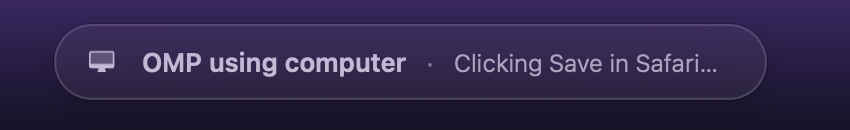
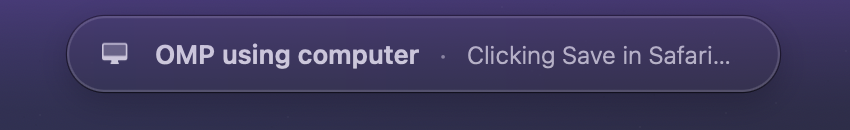
Softer corners, wallpaper stage, frozen breath for deterministic shots

diff --git a/computer-pill/main.swift b/computer-pill/main.swift
@@ -58,7 +58,8 @@ final class GlowView: NSView {
  let clear = NSColor(red: 0.62, green: 0.36, blue: 1.0, alpha: 0.0)
  let depth: CGFloat = 110
  func wash(_ rect: NSRect, angle: CGFloat) {
- NSGradient(starting: edge, ending: clear)?.draw(in: rect, angle: angle)
+ let stops: [(CGFloat, CGFloat)] = [(0.0, 0.55), (0.2, 0.49), (0.4, 0.36), (0.6, 0.19), (0.8, 0.06), (0.9, 0.015), (1.0, 0.0)]
+ NSGradient(colors: stops.map { edge.withAlphaComponent($0.1) }, atLocations: stops.map { $0.0 }, colorSpace: .deviceRGB)?.draw(in: rect, angle: angle)
  }
  override func draw(_ dirtyRect: NSRect) {
  let w = bounds.width, h = bounds.height, d = depth
@@ -66,15 +67,6 @@ final class GlowView: NSView {
  wash(NSRect(x: 0, y: 0, width: w, height: d), angle: 90)
  wash(NSRect(x: 0, y: 0, width: d, height: h), angle: 0)
  wash(NSRect(x: w - d, y: 0, width: d, height: h), angle: 180)
- let corners: [NSPoint] = [
- NSPoint(x: 0, y: 0), NSPoint(x: w, y: 0),
- NSPoint(x: 0, y: h), NSPoint(x: w, y: h),
- ]
- for c in corners {
- NSGradient(starting: edge, ending: clear)?.draw(
- fromCenter: c, radius: 0, toCenter: c, radius: d * 1.4,
- options: [.drawsAfterEndingLocation])
- }
  }
 }
 
@@ -195,6 +187,57 @@ func layout() {
   label.frame = NSRect(x: labelX, y: (pillH - th) / 2, width: pillW - labelX - margin, height: th)
 }
 
+// --stage: README staging only. Full-bleed gradient backdrop drawn by the
+// binary itself, so shots have no foreign windows, seams, or personal data.
+final class BackdropView: NSView {
+ override func draw(_ dirtyRect: NSRect) {
+ let top = NSColor(red: 0.17, green: 0.17, blue: 0.28, alpha: 1.0)
+ let bottom = NSColor(red: 0.25, green: 0.22, blue: 0.36, alpha: 1.0)
+ NSGradient(starting: top, ending: bottom)?.draw(in: bounds, angle: 270)
+ // soft wallpaper-like color fields, so the glow reads as ambient light
+ let w = bounds.width, h = bounds.height
+ func blob(_ cx: CGFloat, _ cy: CGFloat, _ r: CGFloat, _ c: NSColor) {
+ NSGradient(starting: c, ending: c.withAlphaComponent(0))?.draw(
+ fromCenter: NSPoint(x: cx, y: cy), radius: 0,
+ toCenter: NSPoint(x: cx, y: cy), radius: r,
+ options: [.drawsAfterEndingLocation])
+ }
+ blob(w * 0.18, h * 0.72, w * 0.45, NSColor(red: 0.35, green: 0.42, blue: 0.9, alpha: 0.12))
+ blob(w * 0.85, h * 0.25, w * 0.5, NSColor(red: 0.2, green: 0.7, blue: 0.75, alpha: 0.07))
+ // faint deterministic grain: breaks Mach bands on flat fields, like real
+ // desktop texture does, so the shot reads the way the glow looks live
+ var seed: UInt64 = 0x9E3779B97F4A7C15
+ let dots = Int(bounds.width * bounds.height / 700)
+ var i = 0
+ while i < dots {
+ seed = seed &* 6364136223846793005 &+ 1442695040888963407
+ let x = CGFloat((seed >> 33) % UInt64(max(1, Int(bounds.width))))
+ seed = seed &* 6364136223846793005 &+ 1442695040888963407
+ let y = CGFloat((seed >> 33) % UInt64(max(1, Int(bounds.height))))
+ ((i & 1) == 0 ? NSColor.white : NSColor.black).withAlphaComponent(0.03).setFill()
+ NSRect(x: x, y: y, width: 1, height: 1).fill()
+ i += 1
+ }
+ }
+}
+if CommandLine.arguments.contains("--stage") {
+ let back = NSPanel(
+ contentRect: screen.frame,
+ styleMask: [.borderless, .nonactivatingPanel],
+ backing: .buffered,
+ defer: false
+ )
+ back.level = .screenSaver
+ back.collectionBehavior = [.canJoinAllSpaces, .stationary, .fullScreenAuxiliary]
+ back.isOpaque = false
+ back.backgroundColor = .clear
+ back.hasShadow = false
+ back.ignoresMouseEvents = true
+ back.hidesOnDeactivate = false
+ back.sharingType = sharing
+ back.contentView = BackdropView(frame: NSRect(origin: .zero, size: screen.frame.size))
+ back.orderFrontRegardless()
+}
 readStatus()
 statusChanged = false
 layout()
@@ -246,7 +289,9 @@ if !noGlow {
  phase += (1.0 / 30.0) * 2.0 * .pi / 3.0
  let fade = min(1.0, Date().timeIntervalSince(born) / 1.0)
  let out = goodbyeFrom.map { min(1.0, Date().timeIntervalSince($0) / 0.7) } ?? 0
- glow.alphaValue = (0.45 + 0.40 * (0.5 - 0.5 * cos(phase))) * fade * (1 - out)
+ // --stage freezes the breath at its mean so README shots are deterministic.
+ let breath = CommandLine.arguments.contains("--stage") ? 0.65 : (0.45 + 0.40 * (0.5 - 0.5 * cos(phase)))
+ glow.alphaValue = breath * fade * (1 - out)
  }
 }
 
